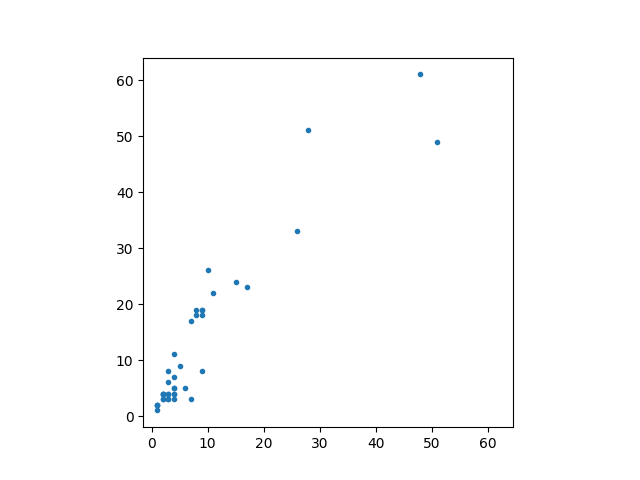
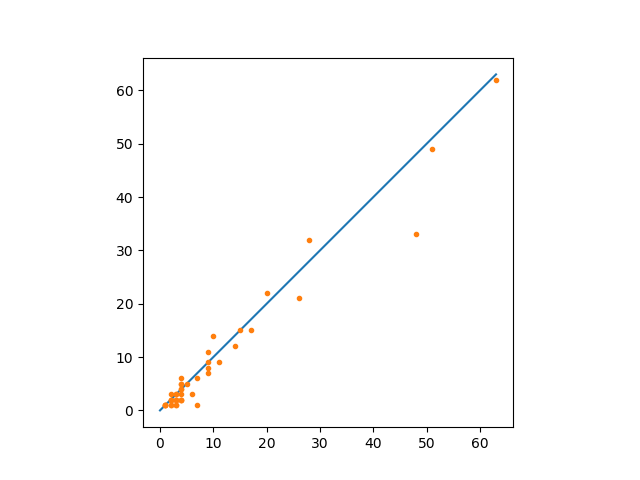
Looks like I win.
I finalised the translations and syllable counts, and tweaked my grammar slightly again.

diff --git a/translator.py b/translator.py
@@ -129,9 +129,9 @@ def reverse_dictionary(djastiz_to_english, english_to_djastiz, djastiz_to_pos, e
 	alphabetized = sorted(djastiz_to_english.keys())
 	with open(filename,'w') as f:
 		f.write("# Word Guide\n\n")
-		f.write("This complete New-Djastiz-to-English dictionary gives the part of speech and English meaning of each New Djastiz word in latin alphabetical order. A crucial reference for anyone living in this post-Djastiz society.\n\n")
+		f.write("This complete Modern-Djastiz-to-English dictionary gives the part of speech and English meaning of each Modern Djastiz word in latin alphabetical order. A crucial reference for anyone living in this post-Djastiz society.\n\n")
 		f.write(translate_line(
-				". dictionary what-kind to New-Djastiz obj English ind who completeness this sbj both part-of-speech and one-that-gets- denote which-one English which-one each word what-kind New-Djastiz obj say to arrange alphabet which-one Latium ind ly . one-that-gets- reference of-which need person of-which society who New-Djastiz obj follow any sbj obj",
+				"dictionary what-kind to Modern-Djastiz obj English ind who completeness this sbj both part-of-speech and one-that-gets- denote which-one English which-one each word what-kind Modern-Djastiz obj say alphabet which-one Latium one arrange by . one-that-gets- reference of-which need person of-which society who Modern-Djastiz obj follow any sbj obj",
 				english_to_djastiz)+"\n")
 		f.write("______\n")
 		for djastiz in alphabetized:
@@ -153,8 +153,7 @@ if __name__ == '__main__':
 		print("{:03}\t{}".format(hist[key], key))
 
 	arr = np.array(arr)
+	plt.plot([0, max(arr[:,0])], [0, max(arr[:,0])])
 	plt.plot(arr[:,0], arr[:,1], '.')
-	plt.xlim([0,70])
-	plt.ylim([0,70])
 	plt.axis('square')
 	plt.savefig('syllable_comparison.png')

diff --git a/word_guide.md b/word_guide.md
@@ -1,9 +1,13 @@
 # Word Guide
 
-This complete New-Djastiz-to-English dictionary gives the part of speech and English meaning of each New Djastiz word in latin alphabetical order. A crucial reference for anyone living in this post-Djastiz society.
+This complete Modern-Djastiz-to-English dictionary gives the part of speech and English meaning of each Modern Djastiz word in latin alphabetical order. A crucial reference for anyone living in this post-Djastiz society.
 
-dhi flrfisdhem ji e djastizrs u jokinggland r li hok osh i ni flrbiothdhem ri flueth o jokinggland o vu dhem ji djastizrs u ij e shaid fliutoryuosh o latium r au dhi fluiks lu izh dhap lu alm li djastizrs u ut'ha dhe i u
+flrfisdhem ji e djastizrs u jokinggland r li hok osh i ni flrbiothdhem a flueth o jokinggland o vu dhem ji djastizrs u ij fliutoryuosh o latium f shaid or dhi fluiks lu izh dhap lu alm li djastizrs u ut'ha dhe i u
 ______
+
+### a
+_conjunction_  
+	*and*
 
 ### ad
 _verb_  
@@ -183,7 +187,7 @@ _verb_
 
 ### bav
 _verb_  
-	*zenith*; None
+	*southernness*
 
 ### be
 _qualifier_  
@@ -268,6 +272,10 @@ _compound verb_
 ### brralp
 _compound verb_  
 	*see*
+
+### brshoh
+_compound verb_  
+	*dream*
 
 ### bru
 _noun_  
@@ -591,7 +599,7 @@ _noun_
 
 ### djastizrs
 _compound noun_  
-	*New-Djastiz*
+	*Modern-Djastiz*
 
 ### dji
 _verb_  
@@ -809,10 +817,6 @@ _verb_
 _verb_  
 	*like*
 
-### eng
-_postposition_  
-	*in*; None
-
 ### ep
 _postposition_  
 	*on*; None
@@ -961,10 +965,6 @@ _verb_
 _noun_  
 	*bovida*; None
 
-### fleng
-_compound pronoun_  
-	*state*
-
 ### flep
 _compound pronoun_  
 	*place*
@@ -975,7 +975,11 @@ _compound pronoun_
 
 ### flia
 _compound pronoun_  
-	*amount-of*; None
+	*amount-of-*; None
+
+### fliajratirj
+_compound noun_  
+	*year*
 
 ### flim
 _compound pronoun_  
@@ -1016,10 +1020,6 @@ _compound pronoun_
 ### flu
 _compound pronoun_  
 	*one-that-gets-*; None
-
-### flubrshoh
-_compound noun_  
-	*dream*
 
 ### flue
 _compound pronoun_  
@@ -1635,7 +1635,7 @@ _verb_
 
 ### iol
 _verb_  
-	*southernness*
+	*easternness*
 
 ### ion
 _verb_  
@@ -1723,7 +1723,7 @@ _verb_
 
 ### iudh
 _verb_  
-	*easternness*
+	*zenith*; None
 
 ### ium
 _verb_  
@@ -1899,7 +1899,7 @@ _compound noun_
 
 ### jrat
 _verb_  
-	*infrequency*; None
+	*period*; None
 
 ### jrdh
 _verb_  
@@ -2217,6 +2217,10 @@ _noun_
 _verb_  
 	*redness*; None
 
+### mejzuey
+_compound verb_  
+	*brownness*
+
 ### melt
 _verb_  
 	*hunger*; None
@@ -2448,10 +2452,6 @@ _verb_
 ### ngif
 _noun_  
 	*soft-coral*
-
-### ngig
-_verb_  
-	*blackness*; None
 
 ### ngij
 _noun_  
@@ -3169,10 +3169,6 @@ _verb_
 _noun_  
 	*8*
 
-### ri
-_conjunction_  
-	*and*
-
 ### rih
 _verb_  
 	*plan*
@@ -3611,7 +3607,7 @@ _verb_
 
 ### sspith
 _verb_  
-	*whiteness*; None
+	*jump*; None
 
 ### sspoi
 _noun_  
